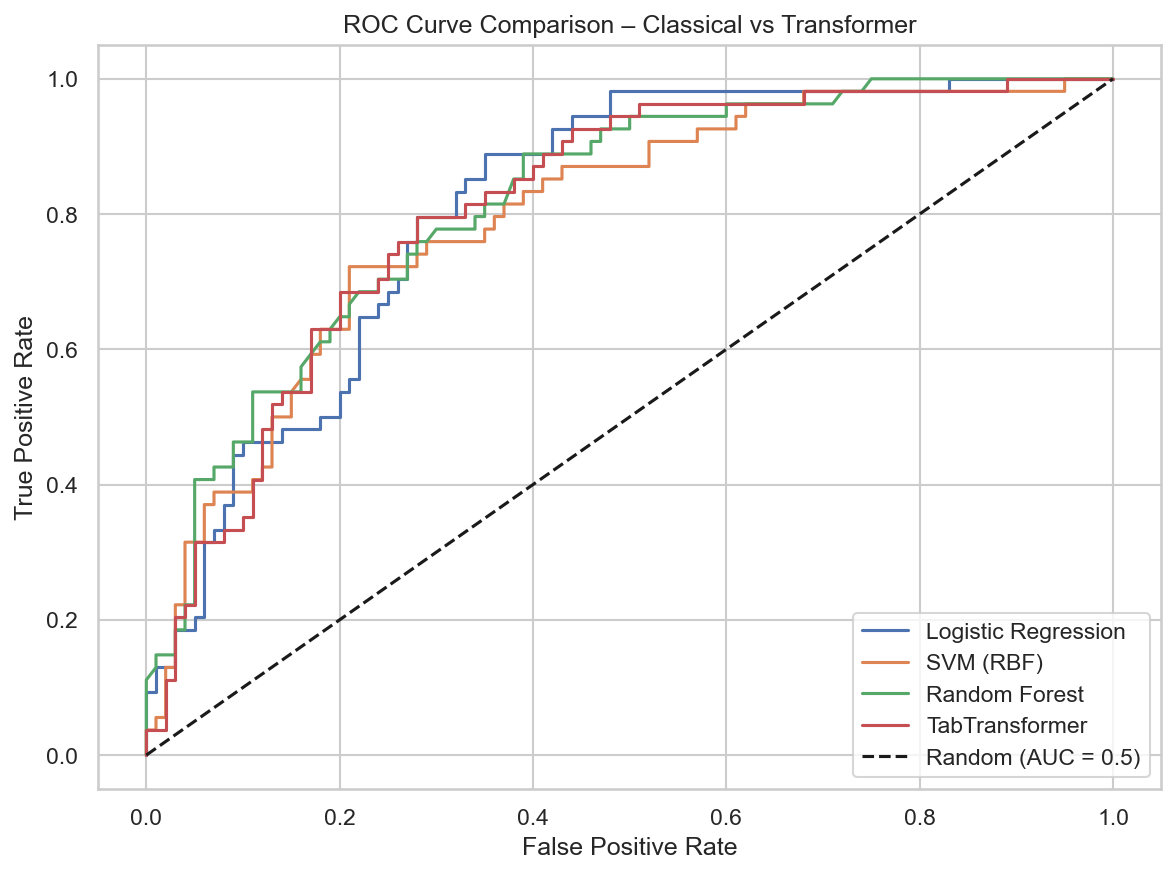
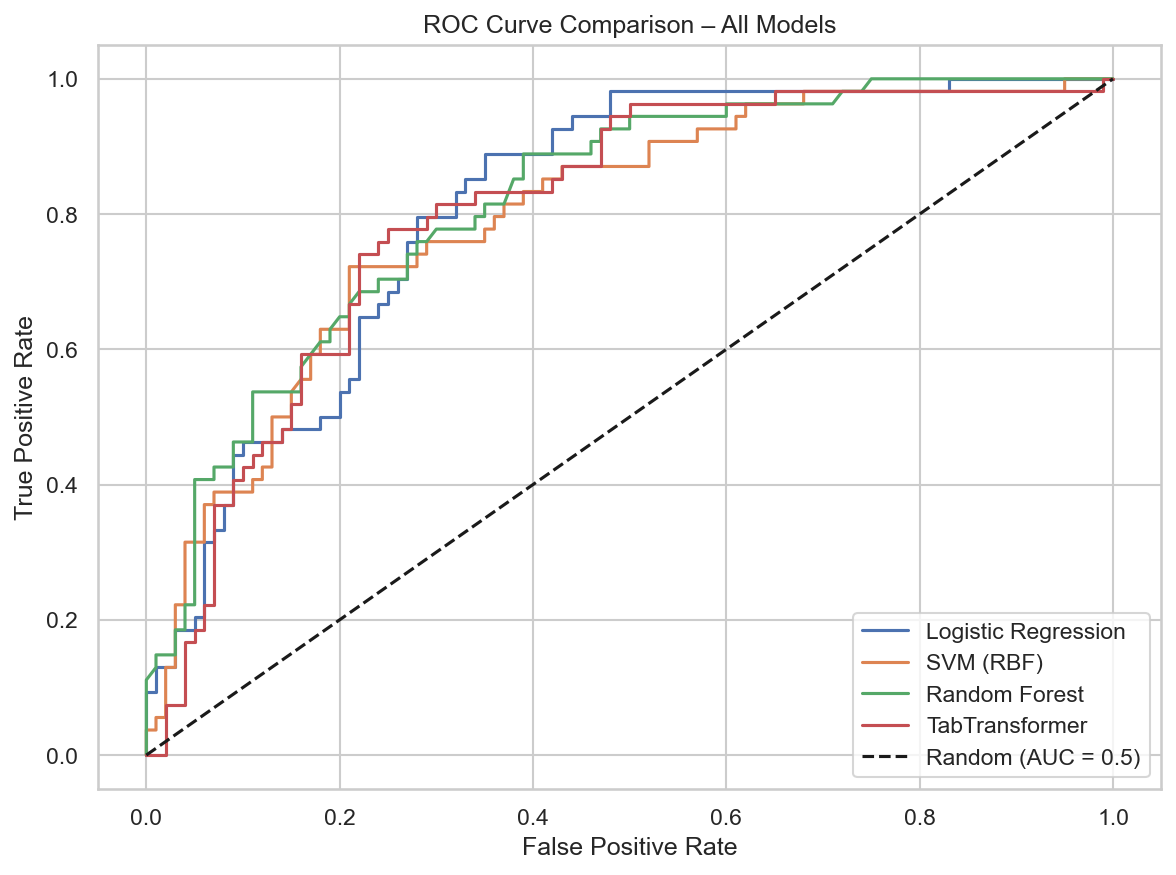
final changes

diff --git a/diabetes2-model/main2.py b/diabetes2-model/main2.py
@@ -5,7 +5,7 @@ import json
 from pathlib import Path
 import shutil
 import matplotlib
-matplotlib.use('Agg')
+matplotlib.use('Agg')  #
 import matplotlib.pyplot as plt
 import seaborn as sns
 from sklearn.model_selection import train_test_split, StratifiedKFold, cross_val_score
@@ -17,13 +17,14 @@ from sklearn.metrics import (
 from sklearn.linear_model import LogisticRegression
 from sklearn.svm import SVC
 from sklearn.ensemble import RandomForestClassifier
-from pytorch_tabnet.tab_model import TabNetClassifier
 import torch
+import torch.nn as nn
+import torch.optim as optim
+from torch.utils.data import Dataset, DataLoader
 import joblib
 
 RANDOM_STATE = 42
 sns.set(style="whitegrid", font_scale=1.0)
-
 
 DATA_PATH = "pimadiabetes.csv"
 df = pd.read_csv(DATA_PATH)
@@ -37,21 +38,19 @@ print(df.info(), "\n")
 print("\nDescriptive statistics:")
 print(df.describe().T, "\n")
 
-
 zero_cols = ["Glucose", "BloodPressure", "SkinThickness", "Insulin", "BMI"]
-
 df_clean = df.copy()
 df_clean[zero_cols] = df_clean[zero_cols].replace(0, np.nan)
 
 print("\nMissing values BEFORE imputation:")
 print(df_clean.isnull().sum())
 
+# Median imputation:
 for col in zero_cols:
     df_clean[col] = df_clean[col].fillna(df_clean[col].median())
 
 print("\nMissing values AFTER median imputation:")
 print(df_clean.isnull().sum(), "\n")
-
 
 plt.figure(figsize=(4, 4))
 sns.countplot(x="Outcome", data=df_clean)
@@ -65,42 +64,190 @@ plt.title("Correlation Heatmap")
 plt.savefig("correlation_heatmap.png", dpi=150, bbox_inches='tight')
 plt.close()
 
-
 X = df_clean.drop("Outcome", axis=1)
 y = df_clean["Outcome"]
 
 X_train, X_test, y_train, y_test = train_test_split(
-    X, y,
-    test_size=0.20,
-    random_state=RANDOM_STATE,
-    stratify=y
+    X, y, test_size=0.20, random_state=RANDOM_STATE, stratify=y
 )
 
 print("Train/Test shapes:")
 print("X_train:", X_train.shape, " X_test:", X_test.shape)
 print("y_train:", y_train.shape, " y_test:", y_test.shape, "\n")
 
-
 scaler = StandardScaler()
 X_train_scaled = scaler.fit_transform(X_train)
 X_test_scaled = scaler.transform(X_test)
+
+class TabTransformerModel(nn.Module):
+    """Transformer-based model for tabular data using self-attention."""
+    def __init__(self, num_features, embed_dim=32, num_heads=4, num_layers=3, 
+                 dim_feedforward=128, dropout=0.1, num_classes=2):
+        super(TabTransformerModel, self).__init__()
+        
+        self.num_features = num_features
+        self.embed_dim = embed_dim
+        
+        self.feature_embeddings = nn.ModuleList([
+            nn.Linear(1, embed_dim) for _ in range(num_features)
+        ])
+        self.pos_encoding = nn.Parameter(torch.randn(1, num_features, embed_dim))
+        encoder_layer = nn.TransformerEncoderLayer(
+            d_model=embed_dim,
+            nhead=num_heads,
+            dim_feedforward=dim_feedforward,
+            dropout=dropout,
+            batch_first=True
+        )
+        self.transformer = nn.TransformerEncoder(encoder_layer, num_layers=num_layers)
+        
+        self.classifier = nn.Sequential(
+            nn.Linear(embed_dim * num_features, dim_feedforward),
+            nn.ReLU(),
+            nn.Dropout(dropout),
+            nn.Linear(dim_feedforward, dim_feedforward // 2),
+            nn.ReLU(),
+            nn.Dropout(dropout),
+            nn.Linear(dim_feedforward // 2, num_classes)
+        )
+        
+    def forward(self, x):
+        batch_size = x.size(0)
+        embedded = torch.stack([
+            self.feature_embeddings[i](x[:, i:i+1]) 
+            for i in range(self.num_features)
+        ], dim=1)
+        embedded = embedded + self.pos_encoding
+        transformer_out = self.transformer(embedded)
+        flattened = transformer_out.view(batch_size, -1)
+        output = self.classifier(flattened)
+        return output
+
+
+class TabTransformerWrapper:
+    """Wrapper for sklearn-style interface."""
+    def __init__(self, num_features, embed_dim=32, num_heads=4, num_layers=3,
+                 dim_feedforward=128, dropout=0.1, learning_rate=1e-3,
+                 batch_size=64, max_epochs=200, patience=30, random_state=42):
+        self.num_features = num_features
+        self.embed_dim = embed_dim
+        self.num_heads = num_heads
+        self.num_layers = num_layers
+        self.dim_feedforward = dim_feedforward
+        self.dropout = dropout
+        self.learning_rate = learning_rate
+        self.batch_size = batch_size
+        self.max_epochs = max_epochs
+        self.patience = patience
+        self.random_state = random_state
+        
+        self.model = None
+        self.device = torch.device('cuda' if torch.cuda.is_available() else 'cpu')
+        self.scaler = None
+        self.best_val_loss = float('inf')
+        self.patience_counter = 0
+        
+    def fit(self, X, y, eval_set=None):
+        torch.manual_seed(self.random_state)
+        np.random.seed(self.random_state)
+        
+        from sklearn.preprocessing import StandardScaler
+        self.scaler = StandardScaler()
+        X_scaled = self.scaler.fit_transform(X)
+        
+        X_train = torch.FloatTensor(X_scaled).to(self.device)
+        y_train = torch.LongTensor(y).to(self.device)
+        
+        if eval_set is not None:
+            if isinstance(eval_set, list) and len(eval_set) > 0:
+                X_val, y_val = eval_set[0]
+            else:
+                X_val, y_val = eval_set
+            X_val_scaled = self.scaler.transform(X_val)
+            X_val_tensor = torch.FloatTensor(X_val_scaled).to(self.device)
+            y_val_tensor = torch.LongTensor(y_val).to(self.device)
+        self.model = TabTransformerModel(
+            num_features=self.num_features,
+            embed_dim=self.embed_dim,
+            num_heads=self.num_heads,
+            num_layers=self.num_layers,
+            dim_feedforward=self.dim_feedforward,
+            dropout=self.dropout
+        ).to(self.device)
+        
+        criterion = nn.CrossEntropyLoss()
+        optimizer = optim.Adam(self.model.parameters(), lr=self.learning_rate)
+        scheduler = optim.lr_scheduler.StepLR(optimizer, step_size=20, gamma=0.9)
+        
+        train_dataset = torch.utils.data.TensorDataset(X_train, y_train)
+        train_loader = DataLoader(train_dataset, batch_size=self.batch_size, shuffle=True)
+        
+        for epoch in range(self.max_epochs):
+            self.model.train()
+            train_loss = 0.0
+            
+            for batch_X, batch_y in train_loader:
+                optimizer.zero_grad()
+                outputs = self.model(batch_X)
+                loss = criterion(outputs, batch_y)
+                loss.backward()
+                optimizer.step()
+                train_loss += loss.item()
+            
+            scheduler.step()
+            
+            if eval_set is not None:
+                self.model.eval()
+                with torch.no_grad():
+                    val_outputs = self.model(X_val_tensor)
+                    val_loss = criterion(val_outputs, y_val_tensor).item()
+                    
+                    if val_loss < self.best_val_loss:
+                        self.best_val_loss = val_loss
+                        self.patience_counter = 0
+                        self.best_model_state = self.model.state_dict().copy()
+                    else:
+                        self.patience_counter += 1
+                        if self.patience_counter >= self.patience:
+                            print(f"Early stopping at epoch {epoch+1}")
+                            self.model.load_state_dict(self.best_model_state)
+                            break
+        
+        if eval_set is not None and hasattr(self, 'best_model_state'):
+            self.model.load_state_dict(self.best_model_state)
+    
+    def predict(self, X):
+        probs = self.predict_proba(X)
+        return (probs[:, 1] >= 0.5).astype(int)
+    
+    def predict_proba(self, X):
+        self.model.eval()
+        X_scaled = self.scaler.transform(X)
+        X_tensor = torch.FloatTensor(X_scaled).to(self.device)
+        with torch.no_grad():
+            outputs = self.model(X_tensor)
+            probs = torch.softmax(outputs, dim=1)
+            return probs.cpu().numpy()
 
 
 models = {
     "Logistic Regression": LogisticRegression(max_iter=1000, random_state=RANDOM_STATE),
     "SVM (RBF)": SVC(kernel="rbf", probability=True, random_state=RANDOM_STATE),
     "Random Forest": RandomForestClassifier(n_estimators=300, random_state=RANDOM_STATE),
-
-    "TabTransformer": TabNetClassifier(
-        optimizer_fn=torch.optim.Adam,
-        optimizer_params=dict(lr=1e-3),
-        scheduler_params={"step_size": 20, "gamma": 0.9},
-        scheduler_fn=torch.optim.lr_scheduler.StepLR,
-        mask_type='entmax',
-        seed=RANDOM_STATE
+    "TabTransformer": TabTransformerWrapper(
+        num_features=8,
+        embed_dim=32,
+        num_heads=4,
+        num_layers=3,
+        dim_feedforward=128,
+        dropout=0.1,
+        learning_rate=1e-3,
+        batch_size=64,
+        max_epochs=200,
+        patience=30,
+        random_state=RANDOM_STATE
     )
 }
-
 
 def compute_metrics(y_true, y_pred, y_proba):
     acc = accuracy_score(y_true, y_pred)
@@ -110,10 +257,8 @@ def compute_metrics(y_true, y_pred, y_proba):
     auc = roc_auc_score(y_true, y_proba)
     return acc, prec, rec, f1, auc
 
-
 results = []
 roc_curves = {}
-
 cv = StratifiedKFold(n_splits=5, shuffle=True, random_state=RANDOM_STATE)
 
 for name, model in models.items():
@@ -122,22 +267,19 @@ for name, model in models.items():
     if name == "TabTransformer":
         model.fit(
             X_train.values,
-            y_train.values,  # 1D labels
-            eval_set=[(X_test.values, y_test.values)],
-            patience=30,
-            max_epochs=200,
-            batch_size=64,
-            virtual_batch_size=32
+            y_train.values,
+            eval_set=[(X_test.values, y_test.values)]
         )
-
-        y_pred = np.array(model.predict(X_test.values)).ravel()
-        proba = np.array(model.predict_proba(X_test.values))
+        y_pred = model.predict(X_test.values)
+        proba = model.predict_proba(X_test.values)
+        
         if proba.ndim == 1:
             y_proba = proba
         elif proba.shape[1] == 1:
             y_proba = proba[:, 0]
         else:
             y_proba = proba[:, 1]
+        
         cv_mean = np.nan
         cv_std = np.nan
     else:
@@ -169,21 +311,18 @@ for name, model in models.items():
     roc_curves[name] = (fpr, tpr)
 
 print("\nModels added to results:", [r["Model"] for r in results])
-
-
 results_df = pd.DataFrame(results)
 results_df = results_df.sort_values(by="ROC-AUC (test)", ascending=False).reset_index(drop=True)
 
 print("\n=== Model Comparison (sorted by test ROC-AUC) ===")
 print(results_df, "\n")
 
-# Save results to CSV for easy viewing
 results_df.to_csv("model_comparison_results.csv", index=False)
 print("Results saved to model_comparison_results.csv")
 
-
 best_model_name = results_df.loc[0, "Model"]
 best_model_metrics = results_df.loc[0]
+
 print(f"\n{'='*60}")
 print(f"BEST MODEL: {best_model_name}")
 print(f"{'='*60}")
@@ -195,7 +334,7 @@ print(f"ROC-AUC (test): {best_model_metrics['ROC-AUC (test)']:.4f}")
 print(f"{'='*60}\n")
 
 if best_model_name == "TabTransformer":
-    y_pred_best = np.array(models["TabTransformer"].predict(X_test.values)).ravel()
+    y_pred_best = models["TabTransformer"].predict(X_test.values)
 else:
     y_pred_best = models[best_model_name].predict(X_test_scaled)
 
@@ -216,18 +355,14 @@ print(classification_report(y_test, y_pred_best, digits=3))
 if best_model_name == "TabTransformer":
     best_model = models["TabTransformer"]
     joblib.dump(best_model, "final_best_model.pkl")
+    joblib.dump(best_model.scaler, "scaler.pkl")
     print(f"\n✓ Best model ({best_model_name}) saved to 'final_best_model.pkl'")
-    print("  Note: TabTransformer doesn't require a scaler")
+    print("✓ Scaler saved to 'scaler.pkl'")
 else:
     best_model = models[best_model_name]
     joblib.dump(best_model, "final_best_model.pkl")
     joblib.dump(scaler, "scaler.pkl")
-    print(f"\n✓ Best model ({best_model_name}) saved to 'final_best_model.pkl'")
-    print("✓ Scaler saved to 'scaler.pkl'")
-
-# ============================================================
-# 12b. DEPLOY BEST MODEL TO WEB APP
-# ============================================================
+   
 
 WEB_APP_ARTIFACTS = Path(__file__).parent.parent / "Diabetes-Predictor-Capstone-App-main" / "backend" / "artifacts"
 
@@ -235,11 +370,8 @@ if WEB_APP_ARTIFACTS.parent.exists():
     WEB_APP_ARTIFACTS.mkdir(parents=True, exist_ok=True)
     
     shutil.copy2("final_best_model.pkl", WEB_APP_ARTIFACTS / "model.pkl")
-    print(f"✓ Deployed model to: {WEB_APP_ARTIFACTS / 'model.pkl'}")
     
-    if best_model_name != "TabTransformer":
-        shutil.copy2("scaler.pkl", WEB_APP_ARTIFACTS / "scaler.pkl")
-        print(f"✓ Deployed scaler to: {WEB_APP_ARTIFACTS / 'scaler.pkl'}")
+    shutil.copy2("scaler.pkl", WEB_APP_ARTIFACTS / "scaler.pkl")
     
     metrics = {
         "model": best_model_name,
@@ -252,22 +384,16 @@ if WEB_APP_ARTIFACTS.parent.exists():
     
     with open(WEB_APP_ARTIFACTS / "metrics.json", "w") as f:
         json.dump(metrics, f, indent=2)
-    print(f"✓ Deployed metrics to: {WEB_APP_ARTIFACTS / 'metrics.json'}")
-    print(f"\n✅ Web app now uses the best model: {best_model_name} (ROC-AUC: {best_model_metrics['ROC-AUC (test)']:.4f})")
 else:
     print(f"\n⚠ Warning: Web app artifacts directory not found at {WEB_APP_ARTIFACTS}")
-    print("  Model saved locally but not deployed to web app.")
-
 
 plt.figure(figsize=(8, 6))
-
 for name, (fpr, tpr) in roc_curves.items():
     plt.plot(fpr, tpr, label=name)
-
 plt.plot([0, 1], [0, 1], "k--", label="Random (AUC = 0.5)")
 plt.xlabel("False Positive Rate")
 plt.ylabel("True Positive Rate")
-plt.title("ROC Curve Comparison – Classical vs Transformer")
+plt.title("ROC Curve Comparison – All Models")
 plt.legend(loc="lower right")
 plt.tight_layout()
 plt.savefig("roc_curves.png", dpi=150, bbox_inches='tight')
